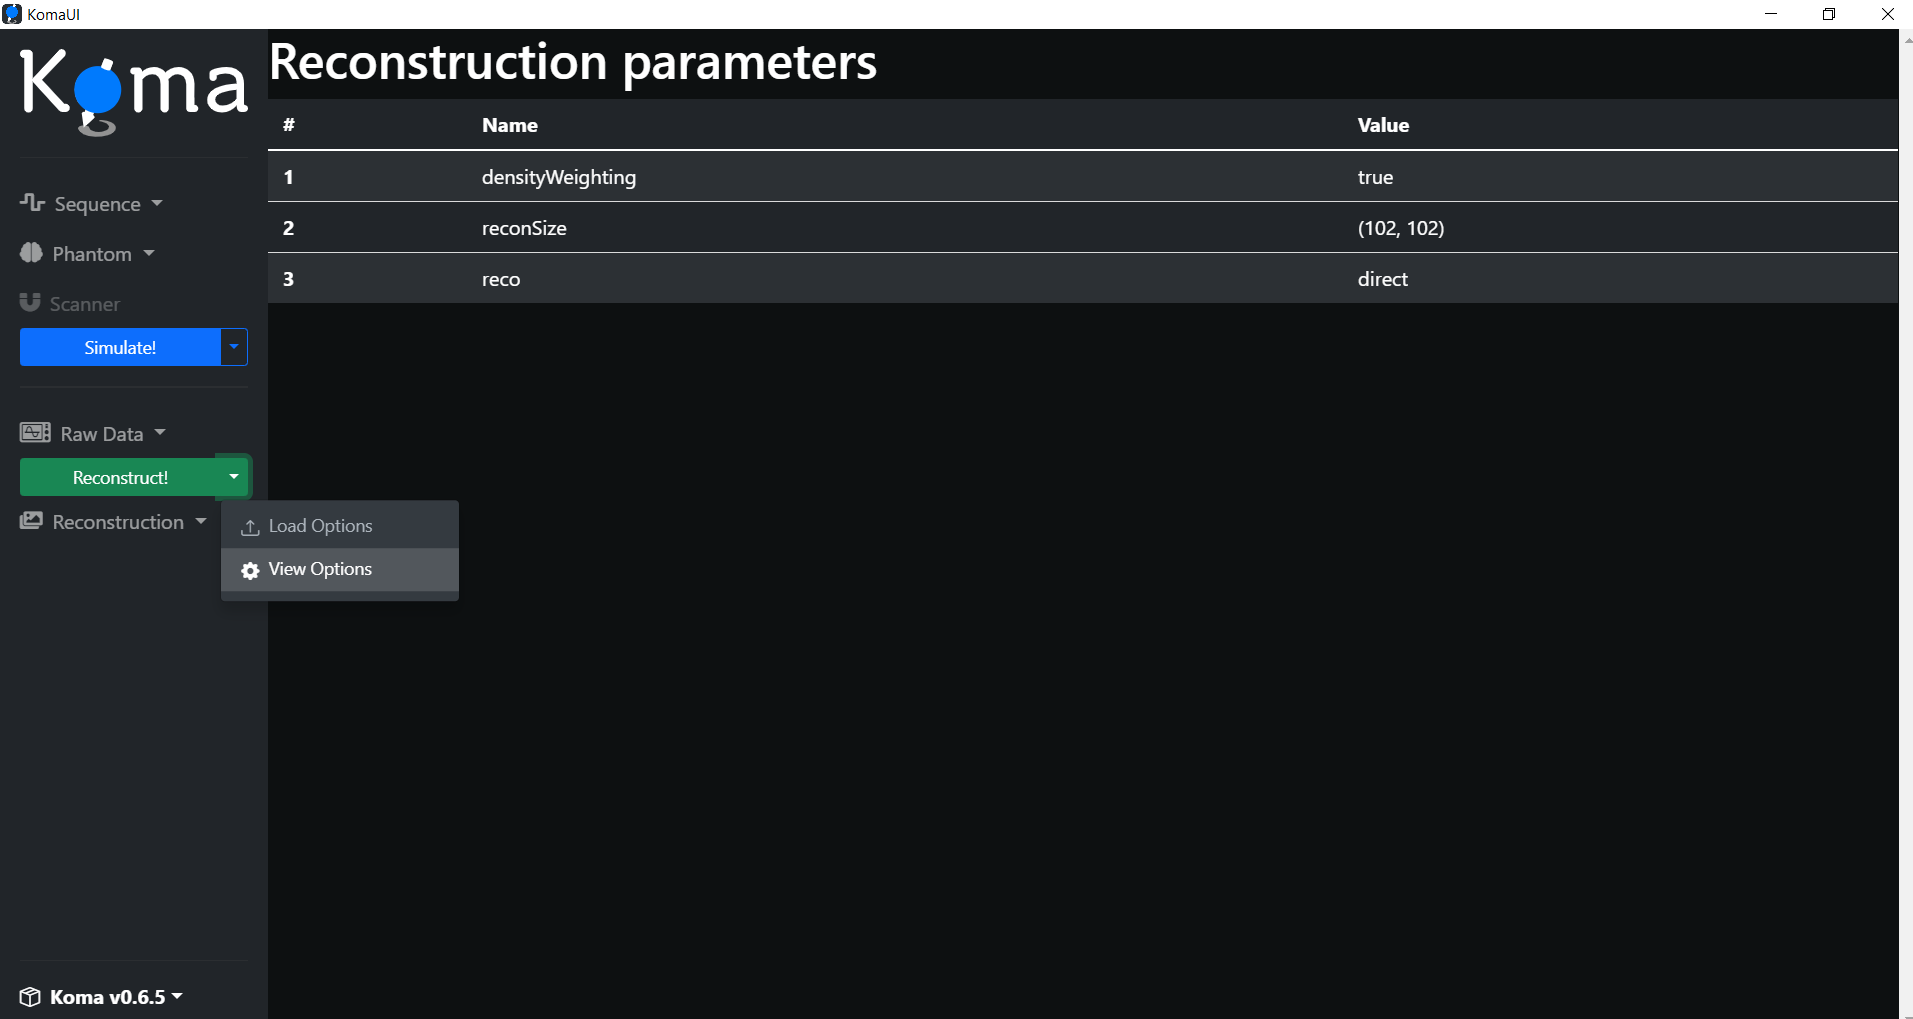
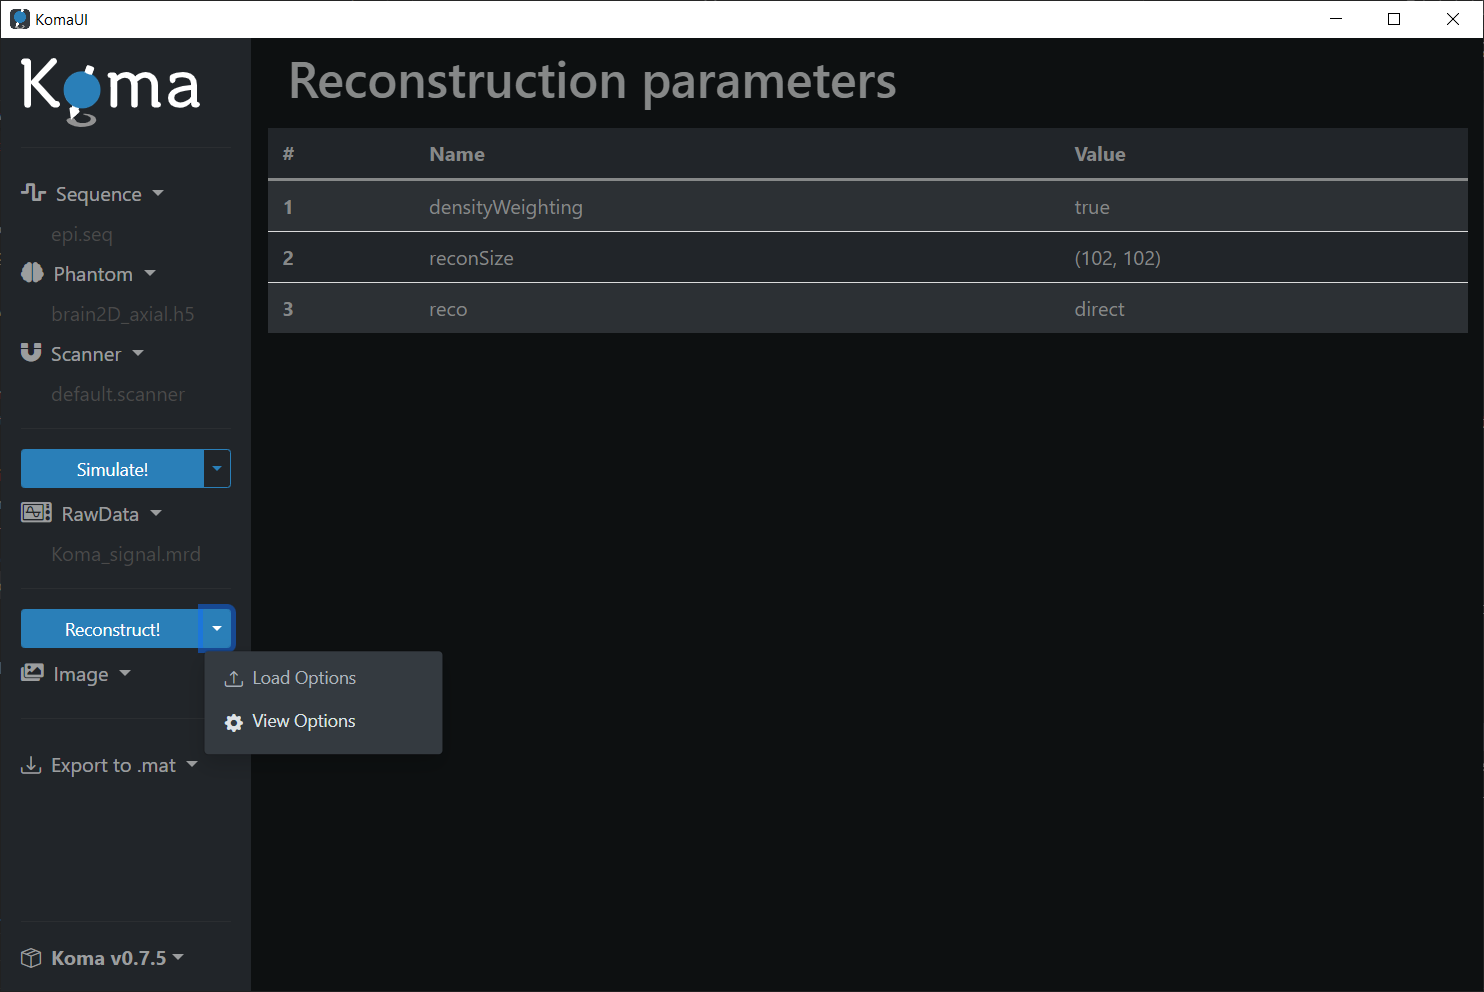
Update images and some writing in docs

diff --git a/docs/src/ui-details.md b/docs/src/ui-details.md
@@ -1,10 +1,10 @@
 # Graphical User Interface
 
-This section is meant to explain some details about how to use the user interface of the **KomaMRI.jl** package and the processes that happen internally while interacting with it.
+This section is meant to explain some details about how to use the user interface of the **KomaMRI** package and the processes that happen internally while interacting with it.
 
 ## Launch the UI
 
-Open the Julia REPL and issue the following commands to include the **KomaMRI.jl** package and launch the user interface:
+Open the Julia REPL and issue the following commands to include the **KomaMRI** package and launch the user interface:
 ```julia-repl
 julia> using KomaMRI
 
@@ -20,22 +20,10 @@ The user interface has already preloaded some inputs (stored in RAM). In particu
 
 ### Scanner
 
-So far, it is not possible to see the **Scanner** struct in the user interface. However, the preloaded **Scanner** struct is the default one, so it is possible to know its attributes by creating a new default **Scanner** struct in the Julia REPL like so:
-```julia-repl
-julia> sys = Scanner()
-Scanner
-  B0: Float64 1.5
-  B1: Float64 1.0e-5
-  Gmax: Float64 0.06
-  Smax: Int64 500
-  ADC_Δt: Float64 2.0e-6
-  seq_Δt: Float64 1.0e-5
-  GR_Δt: Float64 1.0e-5
-  RF_Δt: Float64 1.0e-6
-  RF_ring_down_T: Float64 2.0e-5
-  RF_dead_time_T: Float64 0.0001
-  ADC_dead_time_T: Float64 1.0e-5
-``` 
+You can visualize the preloaded **Scanner** struct by clicking on the `Scanner` dropdown and then pressing the `View Scanner` button. The **Scanner** struct simply contains information related to the hardware being use like the magnitude of the main magnetic field:
+```@raw html
+<p align="center"><img width="90%" src="../assets/gui-scanner-view.png"/></p>
+```
 
 ### Phantom
 
@@ -65,7 +53,9 @@ For visualization of the sequence in the k-space, click on the `Sequence` dropdo
 <p align="center"><img width="90%" src="../assets/gui-seq-kspace-view.png"/></p>
 ```
 
-It is also possible to load `.seq` sequence files. The **KomaMRI.jl** has some examples stored at `~/.julia/packages/KomaMRI/<id-string>/examples/1.sequences/`. For instance, let's load the `spiral.seq` file and view it the time domain and k-space:
+You can also display the `Moments` related to the **Sequence** by pressing the `View Moments` and then pressing the buttons for zero, first and second moments.
+
+It is also possible to load `.seq` sequence files. The **KomaMRI** has some examples stored at `~/.julia/packages/KomaMRI/<id-string>/examples/1.sequences/`. For instance, let's load the `spiral.seq` file and view it the time domain and k-space:
 ```@raw html
 <p align="center"><img width="90%" src="../assets/gui-seq-time-load.png"/></p>
 ```
@@ -87,7 +77,7 @@ To visualize the default simulation parameters, click on the `Simulate!` dropdow
 
 ### Visualization of the Raw Signal
 
-Press the `Simulate!` button to perform the simulation (this may take a while). Then, to view the generated **Raw Signal**, click on the `Raw Data` dropdown and then press the `View Raw Data` button:
+Press the `Simulate!` button to perform the simulation (this may take a while). Automatically the generated **Raw Signal** should be displayed or you can click on the `Raw Data` dropdown and then press the `View Raw Data` button:
 ```@raw html
 <p align="center"><img width="90%" src="../assets/gui-rawsignal-view.png"/></p>
 ```
@@ -105,7 +95,16 @@ To visualize the default reconstruction parameters, click on the `Reconstruct!` 
 
 ### Visualization of the Image
 
-Press the `Reconstruct!` button to perform the reconstruction (this may take a while). Then, to view the generated **Image**, click on the he `Reconstruct!` dropdown and then press the `|Image|` button:
+Press the `Reconstruct!` button to perform the reconstruction (this may take a while).  Automatically the generated **Image** should be displayed or you can click on the he `Reconstruct!` dropdown and then press the `|Image|` button:
 ```@raw html
 <p align="center"><img width="90%" src="../assets/gui-image-view.png"/></p>
 ```
+
+## Export to .mat
+
+The user interface has the option to save the results in **.mat** format. Simply click on the `Export to .mat` and you have the alternatives to get data independently or you can press the `All` button to have all the results given by the simulator:
+```@raw html
+<p align="center"><img width="90%" src="../assets/gui-export-to-mat.png"/></p>
+```
+
+So far, and due to limitations of the user interface dependencies, the **.mat** files are saved in the temporal directory of your computer OS, which can be found by typing the `tempdir()` command in the **Julia REPL**.

diff --git a/docs/src/programming-workflow.md b/docs/src/programming-workflow.md
@@ -30,7 +30,8 @@ raw = simulate(obj, seq, sys; simParams)
 function reconstruct_2d_image(raw::RawAcquisitionData)
     acqData = AcquisitionData(raw)
     acqData.traj[1].circular = false #Removing circular window
-    acqData.traj[1].nodes = acqData.traj[1].nodes[1:2,:] ./ maximum(2*abs.(acqData.traj[1].nodes[:])) #Normalize k-space to -.5 to .5 for NUFFT
+    C = maximum(2*abs.(acqData.traj[1].nodes[:]))  #Normalize k-space to -.5 to .5 for NUFFT
+    acqData.traj[1].nodes = acqData.traj[1].nodes[1:2,:] ./ C
     Nx, Ny = raw.params["reconSize"][1:2]
     recParams = Dict{Symbol,Any}()
     recParams[:reconSize] = (Nx, Ny)
@@ -211,21 +212,6 @@ julia> plot_signal(raw)
 <p align="center"><img width="100%" src="../assets/raw-epi-brain-default.svg"/></p>
 ```
 
-Many people in the MRI community uses MATLAB, probably you are one of them and you want to process the raw signal in the MATLAB environment. Here we show you an example of how to save a ".mat" file with the information of raw signal thank to the help of the **MAT** package:
-```julia
-# Use the MAT package
-using MAT
-
-# Perform simulation to return an Array type
-simParams["return_type"] = "mat"
-raw = simulate(obj, seq, sys; simParams)
-
-# Save the .mat file in the temp directory
-matwrite(joinpath(tempdir(), "koma-raw.mat"), Dict("raw" => raw))
-```
-
-Note that we need to simulate again to return an array type and then we use the **matwrite()** function to save a file called "koma-raw.mat" in the temporal directory of the your computer OS. Now you can go to your temporal directory (you can check that by displaying the **tempdir()** result in the **Julia REPL**) and see the "koma-raw.mat" file.
-
 
 ## Reconstruction
 
@@ -237,7 +223,8 @@ In the example bellow, we create a auxiliary function **reconstruct\_2d\_image()
 function reconstruct_2d_image(raw::RawAcquisitionData)
     acqData = AcquisitionData(raw)
     acqData.traj[1].circular = false #Removing circular window
-    acqData.traj[1].nodes = acqData.traj[1].nodes[1:2,:] ./ maximum(2*abs.(acqData.traj[1].nodes[:])) #Normalize k-space to -.5 to .5 for NUFFT
+    C = maximum(2*abs.(acqData.traj[1].nodes[:]))  #Normalize k-space to -.5 to .5 for NUFFT
+    acqData.traj[1].nodes = acqData.traj[1].nodes[1:2,:] ./ C
     Nx, Ny = raw.params["reconSize"][1:2]
     recParams = Dict{Symbol,Any}()
     recParams[:reconSize] = (Nx, Ny)
@@ -261,3 +248,21 @@ julia> plot_image(image)
 ```@raw html
 <p align="center"><img width="100%" src="../assets/image-default-brain.svg"/></p>
 ```
+
+
+## Export o .mat
+
+Many people in the MRI community uses MATLAB, probably you are one of them and you want to process the raw signal in the MATLAB environment after simulation is done with **KomaMRI**. Here we show you an example of how to save a **.mat** file with the information of the raw signal thank to the help of the **MAT** package:
+```julia
+# Use the MAT package
+using MAT
+
+# Perform simulation to return an Array type
+simParams["return_type"] = "mat"
+raw = simulate(obj, seq, sys; simParams)
+
+# Save the .mat file in the temp directory
+matwrite(joinpath(tempdir(), "koma-raw.mat"), Dict("raw" => raw))
+```
+
+Note that we need to simulate to return an array type (not the default **RawAcquisitionData**) and then we use the **matwrite()** function to save a file called "koma-raw.mat" in the temporal directory of the your computer OS. Now you can go to your temporal directory (you can check that by displaying the **tempdir()** result in the **Julia REPL**) and see the "koma-raw.mat" file.

diff --git a/docs/src/index.md b/docs/src/index.md
@@ -1,22 +1,22 @@
 ## Introduction
 
-**KomaMRI.jl** is a Julia package meant to simulate general Magnetic Resonance Imaging (MRI) scenarios. Its name comes from the Japanese word for spinning-top こま (ko-ma) as they precess due to gravity like spins in a magnetic field.
+**KomaMRI** is a Julia package meant to simulate general Magnetic Resonance Imaging (MRI) scenarios. Its name comes from the Japanese word for spinning-top こま (ko-ma) as they precess due to gravity like spins in a magnetic field.
 
-KomaMRI generates **raw data** by solving the **Bloch equations** using the specified **scanner**, **phantom** and **sequence**. It also provides a Graphical User Interface (GUI) that encapsulates the whole imaging pipeline (simulation and reconstruction).
+**KomaMRI** generates **raw data** by solving the **Bloch equations** using the specified **scanner**, **phantom** and **sequence**. It also provides a Graphical User Interface (GUI) that encapsulates the whole imaging pipeline (simulation and reconstruction).
 
 ```@raw html
 <p align="center"><img class="display-light-only" width="100%" src="assets/koma-schema.svg"/></p>
 <p align="center"><img class="display-dark-only"  width="100%" src="assets/koma-schema-dark.svg""/></p>
 ```
 
-KomaMRI can be used by either:
-* **Graphical User Interface**: User-friendly interaction. No Julia programming skills are required. Refer to [Graphical User Interface](getting-started.md#Graphical-User-Interface) to check the simplest usage example.
+**KomaMRI*** can be used by either:
+* **Graphical User Interface**: User-friendly interaction. No Julia programming skills are required. Refer to [Getting Started](getting-started.md) to check the simplest usage example or refer to [Graphical User Interface](ui-details.md) to dive into the details of how to use the GUI.
 
-* **Scripts** : Basic knowledge of Julia is required. Refer to [FID Example](generated/basic/01-FID.md) to check a tutorial. Refer to the [API documentation](api.md) to discover all the functions that the package has to offer.
+* **Julia Programming** : Basic knowledge of Julia is required. Refer to [Julia Programming](programming-workflow.md) to follow a basic workflow on how to work with **KomaMRI**, read the [Sequence Definition](sequence.md) for learning to create your own **Sequence** structs programmatically, follow the [Examples](generated/basic/01-FID.md) section to see how to manipulate **KomaMRI** functionalities in didactical cases or go to the [API documentation](api.md) to discover all the functions that the package has to offer.
 
 ## Features
 
-Some of the features of **KomaMRI.jl** are:
+Some of the features of **KomaMRI** are:
 * Fast simulations by using CPU and GPU parallelization 🏃💨.
 * Open Source, so anyone can include additional features 🆙.
 * Compatibility with community-standards 🤝 like Pulseq `.seq` and ISMRMRD `.mrd`.

diff --git a/docs/src/getting-started.md b/docs/src/getting-started.md
@@ -2,7 +2,7 @@
 
 ## Installing Julia
 
-KomaMRI was written in Julia, so the first thing you should do is to install it! The latest version of Julia can be downloaded at the [Julia Downloads](https://julialang.org/downloads/) page. It is advisable you add julia to the PATH, which can be done during the installation process.
+**KomaMRI** was written in Julia, so the first thing you should do is to install it! The latest version of Julia can be downloaded at the [Julia Downloads](https://julialang.org/downloads/) page. It is advisable you add julia to the PATH, which can be done during the installation process.
 
 ## Installing KomaMRI
 
@@ -11,7 +11,7 @@ Once Julia is installed, open the Julia REPL and add the `KomaMRI` package. To b
 ```julia-repl
 julia> ]
 
-(@v1.8) pkg> add KomaMRI
+(@v1.9) pkg> add KomaMRI
 ```
 Then press `Ctrl+C` or `backspace` to return to the `julia>` prompt.
 
@@ -19,7 +19,7 @@ Then press `Ctrl+C` or `backspace` to return to the `julia>` prompt.
 ---
 ## My First MRI Simulation
 
-For our first simulation we will use Koma's graphical user interface (GUI). For this, you will first need to load KomaMRI by typing `using KomaMRI`, and then lauch the GUI with `KomaUI()`.
+For our first simulation we will use **KomaMRI**'s graphical user interface (GUI). For this, you will first need to load **KomaMRI** by typing `using KomaMRI`, and then lauch the GUI with `KomaUI()`.
 
 ```julia-repl
 julia> using KomaMRI
@@ -32,11 +32,11 @@ The first time you use this command it may take more time than usual, but a wind
 
 The user interface has some basic definitions for the scanner, phantom, and sequence already preloaded. So you can immediately interact with the simulation and reconstruction processes, and then visualize the results.
 
-As a simple demonstration, press the button `Simulate!` and wait until the simulation is ready. Then click on the `Raw Data` dropdown and then click on the `View Raw Data` button. You should see the following:
+As a simple demonstration, press the `Simulate!` button and wait until the simulation is ready. Now you have acquired the `Raw Data` and you should see the following:
 
 ![](assets/ui-view-raw-data.png)
 
-Then, press the button `Reconstruct!` and wait until the reconstruction ends. Then click on the `Reconstruction` dropdown and then click on the `|Image|` button to see the image reconstruction: 
+Then, press the `Reconstruct!` button and wait until the reconstruction ends. Now you have reconstructed an `Image` from the `Raw Data` and you should see the following in the GUI:
 
 ![](assets/ui-view-abs-image.png)
 

diff --git a/docs/src/sequence.md b/docs/src/sequence.md
@@ -1,4 +1,4 @@
-# Sequence
+# Sequence Definition
 
 This section dives into some details about how a sequence is constructed. After you read this section, you should be able to construct your own **Sequence** structs to perform your custom simulations using the **KomaMRI** package.
 
